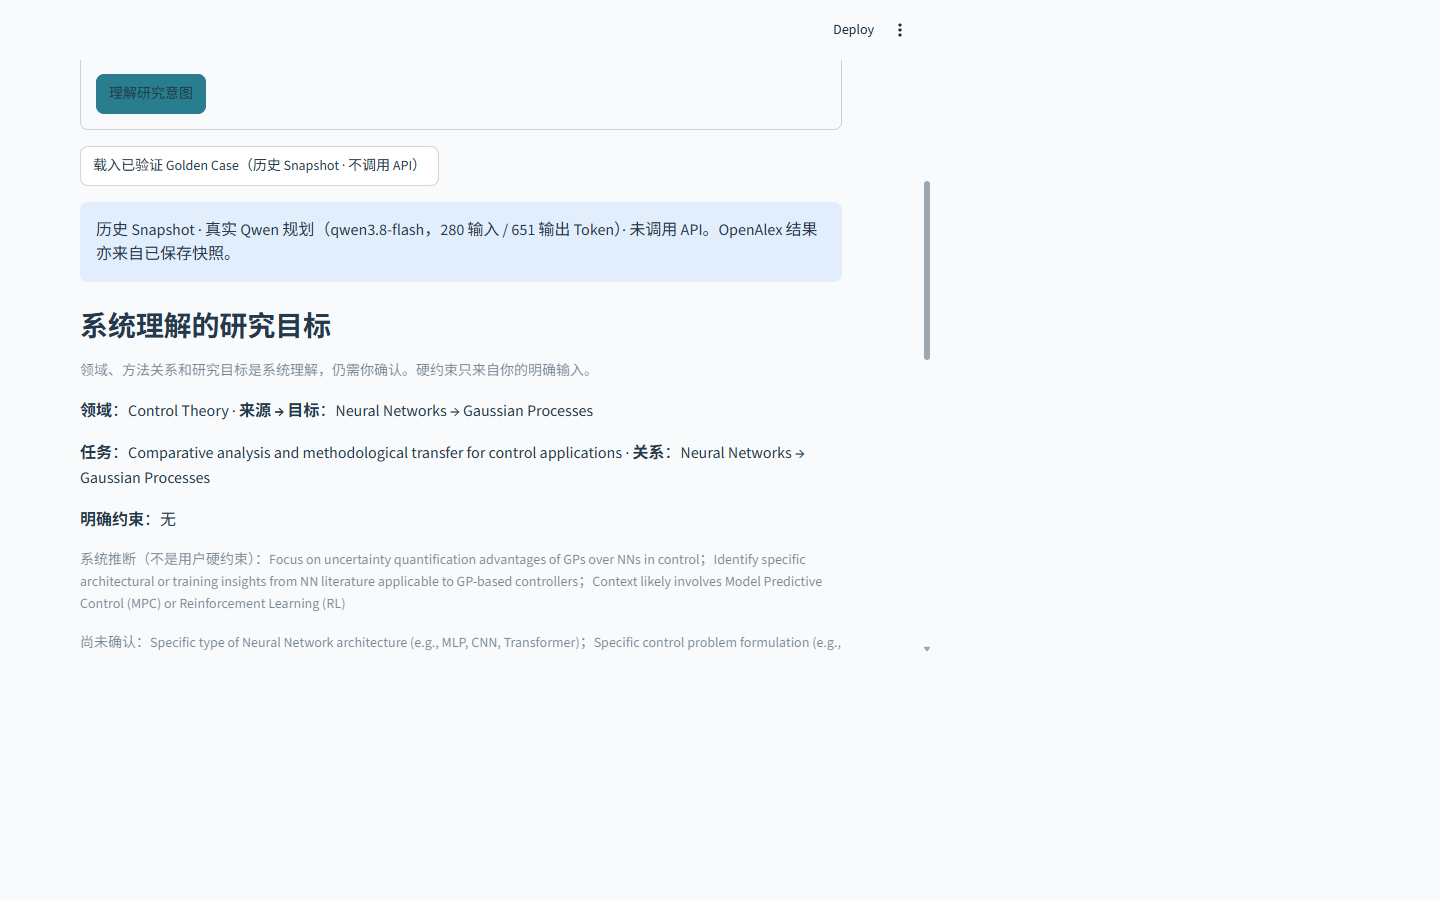
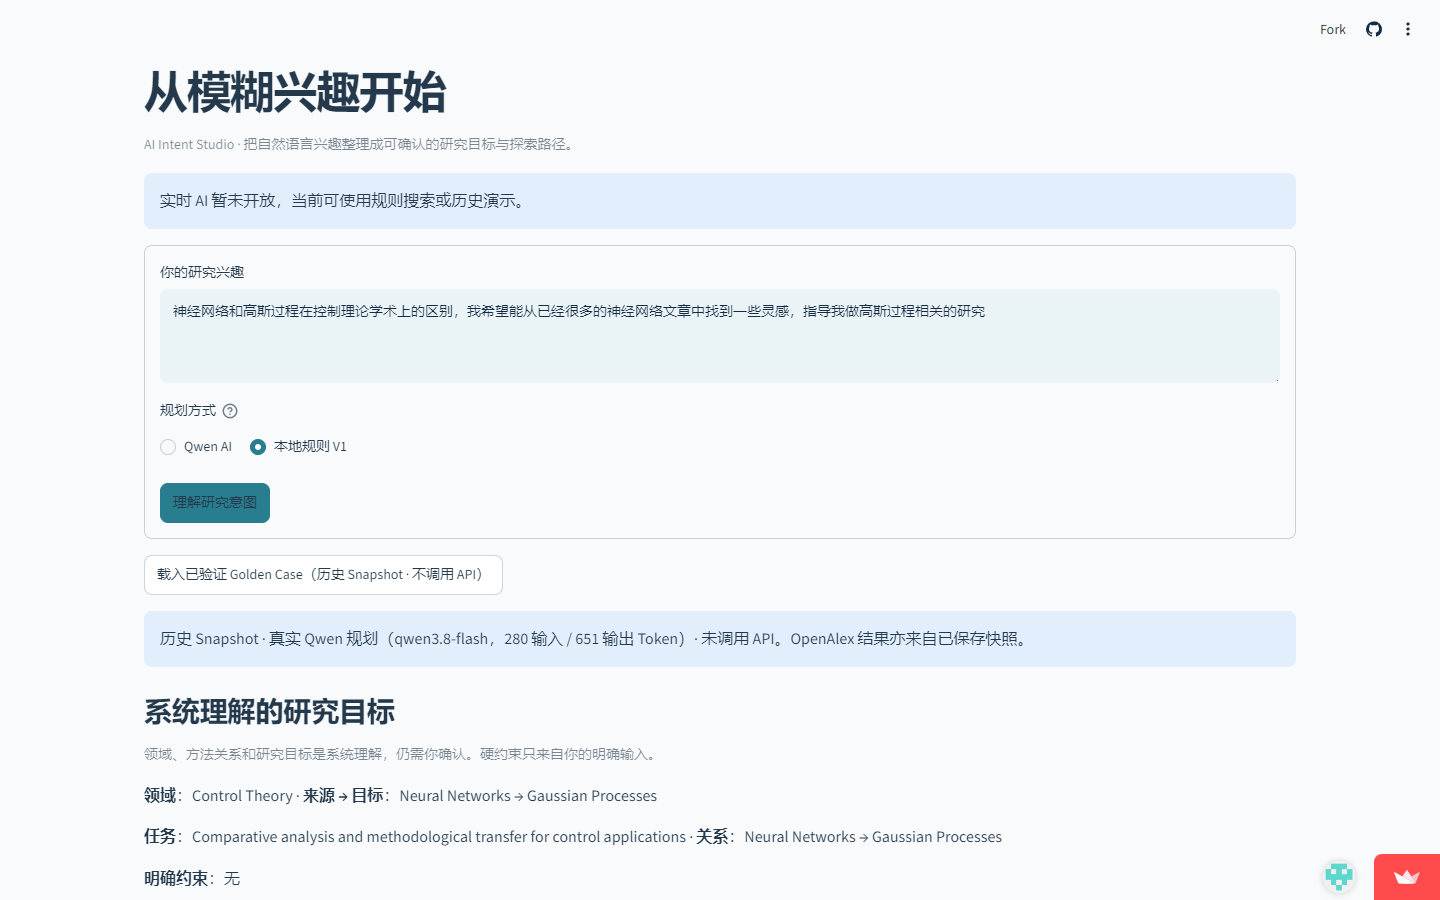
Finalize portfolio screenshots and provenance

diff --git a/docs/FINAL_DELIVERY.md b/docs/FINAL_DELIVERY.md
@@ -8,7 +8,7 @@ Last checked: 2026-10-15. Public app: https://research-compass-ai.streamlit.app/
 | Golden Case v2 | `research_compass/golden_v2.py`, `research_compass/golden_v2_ui.py`; Page 2 and Page 3 | Yes | Public browser: path 1→A, 2→C, 3→B; only selected card; no stale card on switch | Human-curated saved evidence, not live Qwen | Already public |
 | PRD | `docs/PRD_v1.md` | Yes | Scope, three pages, metric, failure handling, current boundary | User outcome not yet studied | Local final changes need push for GitHub copy |
 | Evaluation | `docs/EVALUATION_CASE_STUDY.md` | Yes | Frozen metrics and limits stated; labels and traces untouched | One query; pending NLP decision | Local copy fix needs push |
-| Prototype screenshots | `docs/prototypes/01_AI_Intent_Studio.png`, `02_Research_Path_Explorer.png`, `03_Evidence_Next_Steps.png` | Partial | Files are actual browser renders, each 1440×900 px | Browser CSS viewport was 932×654; blank canvas, not full desktop capture | No replacement this round |
+| Prototype screenshots | `docs/prototypes/01_AI_Intent_Studio.png`, `02_Research_Path_Explorer.png`, `03_Evidence_Next_Steps.png` | Yes | Genuine 1440×900 browser viewport captures inspected; Page 3 shows path 1→Card A | Card content continues below viewport and scrolls; captures are historical Golden Case data | Include in portfolio |
 | Design specification | `docs/prototypes/DESIGN_SPEC.md` | Yes | Captured viewport and data provenance disclosed | Full desktop visual validation pending | Local final changes need push |
 | README | `README.md` | Yes | Public URL, flow, architecture, metrics and limits present | Mentions deployed public Evaluation copy issue | Local final changes need push |
 | Resume project | `docs/RESUME_PROJECT.md` | Yes | 100–150 Chinese character summary plus role-tailored bullets | No user growth/efficiency claims | Local final changes need push |
@@ -23,4 +23,4 @@ Last checked: 2026-10-15. Public app: https://research-compass-ai.streamlit.app/
 
 ## Release decision
 
-This project is ready to use as an AI PM portfolio demo with explicit limits. Before calling the latest local docs and Evaluation copy fix part of the public release, review the local diff and authorize an ordinary push. Do not enable public Qwen until concurrency-slot recovery and a fresh cloud security review pass. Replace prototype screenshots only after capturing a real 1440×900 browser viewport; do not stretch or pad the existing renders.
+This project is ready to use as an AI PM portfolio demo with explicit limits. The genuine desktop viewport captures and their provenance are included in the portfolio files. Do not enable public Qwen until concurrency-slot recovery and a fresh cloud security review pass. Any outstanding documentation or Evaluation copy patch still requires its own reviewed commit and ordinary-push authorization before it becomes public.

diff --git a/docs/PORTFOLIO_OVERVIEW.md b/docs/PORTFOLIO_OVERVIEW.md
@@ -20,7 +20,7 @@
 - [Path Explorer](prototypes/02_Research_Path_Explorer.png)
 - [Evidence & Next Steps](prototypes/03_Evidence_Next_Steps.png)
 
-截图文件为 1440×900 像素，但网页实际捕获视口只有 932×654 CSS 像素，其余区域为空白；它们不是完整桌面视口截图。线上 Golden Case v2 的映射为 path1→A 稳定性与安全、path2→C NN 结构与 GP 表达、path3→B 在线学习与 GP 更新。该页面为人工策划历史案例，不是 Qwen 实时结果。
+三张 PNG 均为 1440×900 像素的真实浏览器页面视口截图，未把小图扩画布或填充空白。Page 3 展示路径 1 → Card A 的 Golden Case v2 状态；卡片内容在视口下方可滚动查看。线上映射为 path1→A 稳定性与安全、path2→C NN 结构与 GP 表达、path3→B 在线学习与 GP 更新。该页面为人工策划历史案例，不是 Qwen 实时结果。
 
 ## 关键产品决策
 
@@ -43,8 +43,8 @@
 1. Safely recover abandoned concurrency slots without releasing capacity while a model request may still be running; test conservatively, then repeat Cloud security review.
 2. Add independent labeled English, non-transfer and cross-domain cases; adjudicate the pending NLP label in a new freeze.
 3. Measure Actionable Research Plan Completion with researcher tasks before claiming user value.
-4. Capture genuine full 1440×900 browser viewport screenshots when real desktop capture is available.
+4. Validate responsive behavior at narrow desktop and mobile widths; the portfolio captures document the 1440×900 desktop viewport.
 
 ## 当前可声明的交付
 
-Online rule-based MVP, OpenAlex retrieval, human-curated Golden Case v2, frozen single-case evaluation, CI success and local isolated Redis safety acceptance. Not yet evidenced: public Qwen operation, user growth, task efficiency gain, commercial revenue, broad search-quality generalization or full desktop screenshot validation.
+Online rule-based MVP, OpenAlex retrieval, human-curated Golden Case v2, frozen single-case evaluation, CI success, local isolated Redis safety acceptance, and genuine 1440×900 browser viewport captures. Not yet evidenced: public Qwen operation, user growth, task efficiency gain, commercial revenue or broad search-quality generalization.

diff --git a/docs/prototypes/DESIGN_SPEC.md b/docs/prototypes/DESIGN_SPEC.md
@@ -19,9 +19,9 @@ The screenshots use the Golden Case’s previously recorded **real Qwen response
 
 ## Browser capture note
 
-The three PNG files are genuine browser renders saved as 1440 × 900 pixel images. The browser's actual CSS viewport at capture was only 932 × 654, so the visible app occupies only that smaller viewport; the remaining canvas is blank. They are not full 1440 × 900 desktop screenshots and do not validate the full-width desktop layout. This limitation is disclosed rather than filled or represented as a larger browser capture.
+The three supplied screenshots are 1440 × 900 pixel browser viewport captures. Visual inspection confirms the app content is laid out across the viewport rather than a smaller capture surrounded by blank padding. Page 1 shows the Golden Case intent preview and rule-mode state; Page 2 shows the three exploration paths; Page 3 shows the path 1 → Card A human-curated Golden Case v2 state. Page 3's card continues below the viewport and is scrollable in the live app.
 
-The screenshots document the actual Streamlit page states, not a separate mockup. Page 1 and Page 2 use the saved Golden Case history. Page 3 uses the human-curated Golden Case v2 card content. None of the screenshots represents a new Qwen or OpenAlex request.
+These are actual Streamlit page renders, not mockups. They use the saved Golden Case history and human-reviewed v2 card data. They do not represent a new Qwen or OpenAlex request, nor a live Qwen result. See `docs/GOLDEN_CASE_V2_EVIDENCE_AUDIT.md` for the human-curation and evidence provenance.
 
 ## Files
 

diff --git a/README.md b/README.md
@@ -33,7 +33,7 @@ The [v2 evidence audit](docs/GOLDEN_CASE_V2_EVIDENCE_AUDIT.md) documents why the
 
 ## Screenshots
 
-The three editable Streamlit pages have browser-rendered prototype captures: [Intent Studio](docs/prototypes/01_AI_Intent_Studio.png), [Path Explorer](docs/prototypes/02_Research_Path_Explorer.png), and [Evidence & Next Steps](docs/prototypes/03_Evidence_Next_Steps.png). The PNG dimensions are 1440×900, but the actual browser viewport at capture was 932×654 CSS pixels and the unused area is blank. They are **not full 1440×900 desktop screenshots or desktop-layout validation**. See [design spec](docs/prototypes/DESIGN_SPEC.md).
+The three editable Streamlit pages have genuine browser viewport captures: [Intent Studio](docs/prototypes/01_AI_Intent_Studio.png), [Path Explorer](docs/prototypes/02_Research_Path_Explorer.png), and [Evidence & Next Steps](docs/prototypes/03_Evidence_Next_Steps.png). Each image is 1440×900 pixels and shows a naturally sized page viewport, not a smaller image padded onto a larger canvas. Page 3 shows the path 1 → Card A Golden Case v2 state; the evidence card continues below the viewport and can be scrolled in the live app. See [design spec](docs/prototypes/DESIGN_SPEC.md) for capture and snapshot provenance.
 
 ## Run locally
 
